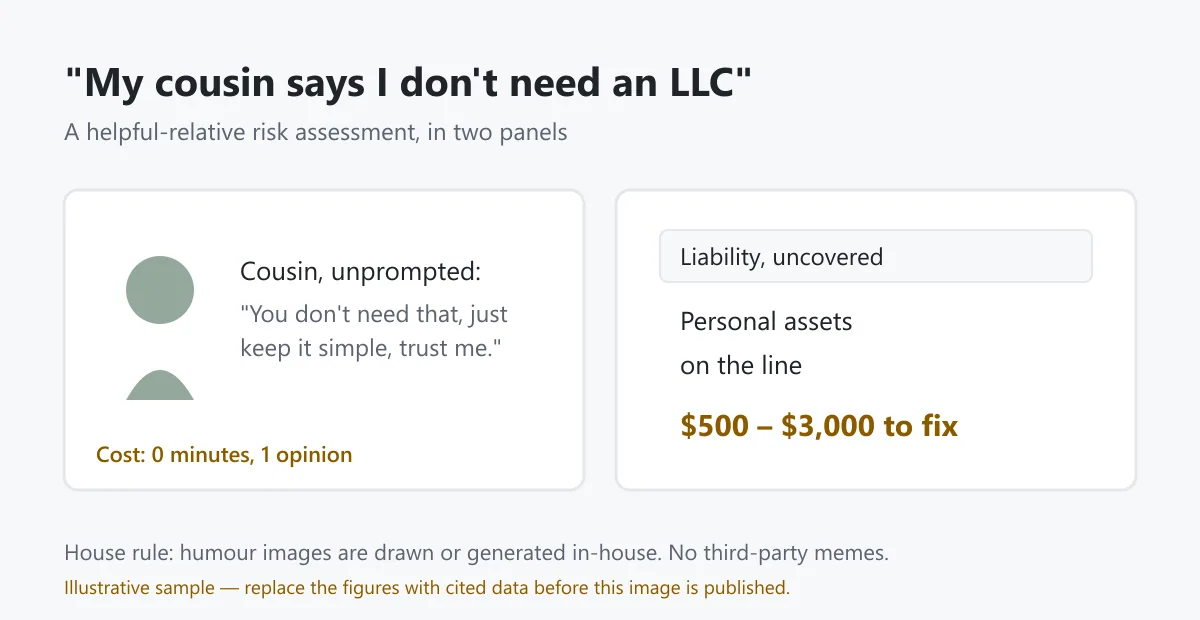
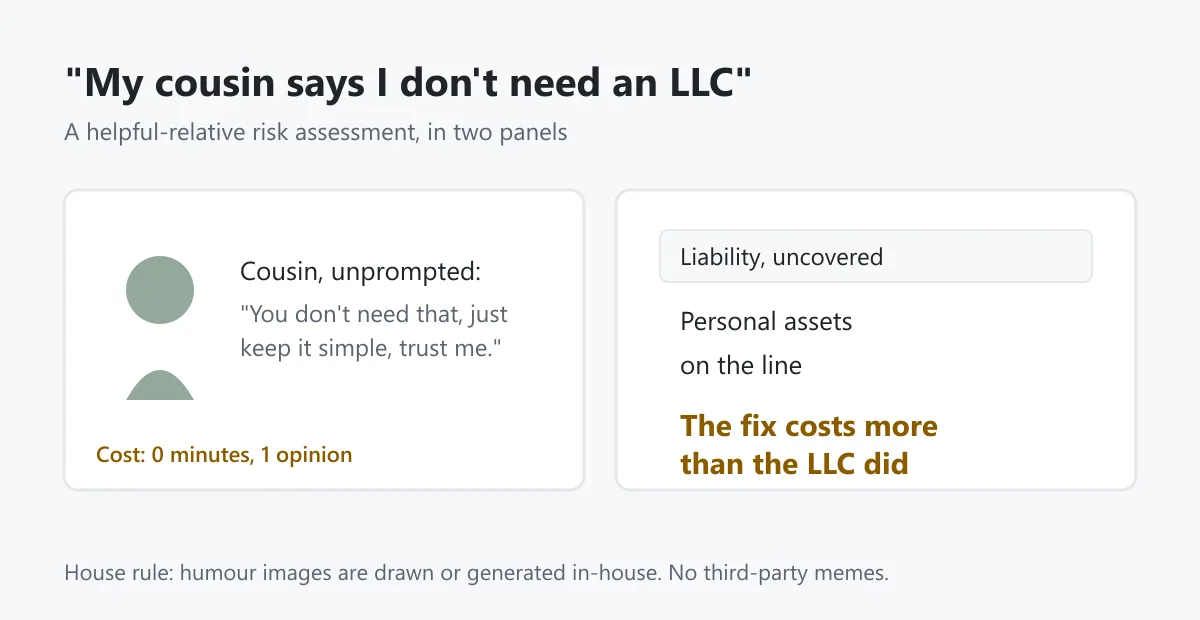
JHL-4: verify the cost figures against primary sources, rebuild the figures
Number check (the blocker before publishing the LLC cost guide). Every figure now
traces to the agency that charges it, not a comparison site:

- filing fee range $50-$500 -> $35-$500 (Montana $35, Kentucky $40, MA $500)
- registered agent $0-$150/yr -> $0-$250/yr (Northwest $125, ZenBusiness $199,
  LegalZoom $249)
- annual report -> "annual report or state renewal" $0-$800/yr, with the $800 named
  as California's annual minimum franchise tax rather than an annual-report fee
- bank account $0-$180/yr -> $0-$360/yr ($15-$30/mo unless the balance waiver is met)
- chart: New York $205 -> $200 (the $205 quoted elsewhere adds a $5 plain-copy fee)
- formation service "+$100-$300" -> "$0 to about $300" (free tiers exist)

Also in the guide: dropped the self-referential internal link, US spelling
(diarise/organisation/licence), and a sources section that names where each number
comes from.

Images: build_samples.py no longer emits the "illustrative sample" scaffold. The
chart carries its source line inside the image and its figures sit next to their
provenance in the source, so a number and its citation are edited together
(IMAGE-RULES.md §7).

Tests: two tests asserted the "no asset base configured" path while inheriting the
live config, so they broke the moment JHL-1 connected GitHub Pages. They now supply
their own config (CFG_WITHOUT_ASSETS) and test what they claim to.

verify:all exit 0 (Astro SEO + themes + 84 pipeline tests + 4/4 image audit).

Changed region(s): [[0.0308, 0.8581, 0.74, 0.9806], [0.555, 0.6435, 0.8017, 0.7661]]

diff --git a/blogger/images/build_samples.py b/blogger/images/build_samples.py
@@ -37,8 +37,9 @@ WARN = "#8a5a00"
 
 FONT = "Segoe UI, Helvetica Neue, Arial, sans-serif"
 
-SAMPLE_NOTE = ("Illustrative sample — replace the figures with cited data "
-               "before this image is published.")
+# Figures in the explanatory diagrams are citations, not decoration. Every number
+# drawn here must be traceable to the filing agency that charges it; the source line
+# under each figure names the agency class. See blogger/images/IMAGE-RULES.md §7.
 
 
 def _svg(width: int, height: int, body: str) -> str:
@@ -51,15 +52,22 @@ def _svg(width: int, height: int, body: str) -> str:
 
 
 def filing_fee_chart() -> str:
-    """Horizontal bar chart: LLC filing fee by state (sample figures)."""
+    """Horizontal bar chart: LLC filing fee by state, primary-source values.
+
+    Verified 2026-10-19 against each state's own fee schedule (the numbers a filer is
+    actually charged by the secretary of state, not a comparison site's summary):
+    MA $500 (sec.state.ma.us), TX $300 (sos.state.tx.us), NY $200 (dos.ny.gov; the
+    $205 quoted elsewhere adds a $5 plain-copy fee), FL $125 (dos.fl.gov — $100 filing
+    + $25 registered agent), WY $100 (sos.wyo.gov), CA $70 (sos.ca.gov).
+    """
     w, h = 1200, 720
     rows = [
-        ("Wyoming", 100),
-        ("Texas", 300),
-        ("Florida", 125),
-        ("New York", 205),
-        ("California", 70),
         ("Massachusetts", 500),
+        ("Texas", 300),
+        ("New York", 200),
+        ("Florida", 125),
+        ("Wyoming", 100),
+        ("California", 70),
     ]
     max_val = 500
     left, top = 300, 170
@@ -70,13 +78,13 @@ def filing_fee_chart() -> str:
         f'  <text x="64" y="86" font-family="{FONT}" font-size="40" font-weight="700" fill="{INK}">'
         "What an LLC costs to file</text>",
         f'  <text x="64" y="124" font-family="{FONT}" font-size="22" fill="{INK_SOFT}">'
-        "State filing fee, sample figures in US dollars</text>",
+        "State filing fee, US dollars, 2026</text>",
         f'  <line x1="64" y1="150" x2="{w - 64}" y2="150" stroke="{LINE}" stroke-width="2"/>',
     ]
     for i, (state, value) in enumerate(rows):
         y = top + i * (bar_h + gap)
         bar_w = int(plot_w * value / max_val)
-        shade = ACCENT if i in (0, 5) else ACCENT_2 if value >= 200 else ACCENT_3
+        shade = ACCENT if i in (0, len(rows) - 1) else ACCENT_2 if value >= 200 else ACCENT_3
         parts += [
             f'  <text x="64" y="{y + 31}" font-family="{FONT}" font-size="24" fill="{INK}">{state}</text>',
             f'  <rect x="{left}" y="{y}" width="{bar_w}" height="{bar_h}" rx="3" fill="{shade}"/>',
@@ -86,9 +94,8 @@ def filing_fee_chart() -> str:
     parts += [
         f'  <line x1="{left}" y1="{top + 6 * (bar_h + gap) - gap + 10}" x2="{w - 64}" '
         f'y2="{top + 6 * (bar_h + gap) - gap + 10}" stroke="{LINE}" stroke-width="2"/>',
-        f'  <text x="64" y="{h - 74}" font-family="{FONT}" font-size="19" fill="{WARN}">{SAMPLE_NOTE}</text>',
         f'  <text x="64" y="{h - 40}" font-family="{FONT}" font-size="19" fill="{INK_SOFT}">'
-        "Source of the real numbers: each state&#39;s secretary of state fee schedule.</text>",
+        "Source: each state&#39;s secretary of state fee schedule, 2026.</text>",
     ]
     return _svg(w, h, "\n".join(parts))
 
@@ -97,9 +104,9 @@ def first_90_days_timeline() -> str:
     """Milestone timeline for the first 90 days after formation."""
     w, h = 1200, 620
     milestones = [
-        ("Day 0", "Formation filed", "Articles of organisation accepted, EIN applied for"),
+        ("Day 0", "Formation filed", "Articles of organization accepted, EIN applied for"),
         ("Day 30", "Bank and records", "Business account opened, receipts filed from day one"),
-        ("Day 60", "Licences and permits", "Local business licence, sales tax registration if selling goods"),
+        ("Day 60", "Licenses and permits", "Local business license, sales tax registration if selling goods"),
         ("Day 90", "Habits that stick", "Monthly close, quarterly estimates reserved"),
     ]
     top = 320
@@ -135,9 +142,6 @@ def first_90_days_timeline() -> str:
                 f'  <text x="{x}" y="{top + 96 + j * 28}" text-anchor="middle" '
                 f'font-family="{FONT}" font-size="20" fill="{INK_SOFT}">{line}</text>'
             )
-    parts.append(
-        f'  <text x="64" y="{h - 40}" font-family="{FONT}" font-size="19" fill="{WARN}">{SAMPLE_NOTE}</text>'
-    )
     return _svg(w, h, "\n".join(parts))
 
 
@@ -169,10 +173,11 @@ def cartoon_meme() -> str:
         f'  <text x="680" y="330" font-family="{FONT}" font-size="26" fill="{INK}">Personal assets</text>',
         f'  <text x="680" y="374" font-family="{FONT}" font-size="26" fill="{INK}">on the line</text>',
         f'  <text x="680" y="436" font-family="{FONT}" font-size="30" font-weight="700" fill="{WARN}">'
-        "$500 – $3,000 to fix</text>",
-        f'  <text x="64" y="{h - 60}" font-family="{FONT}" font-size="22" fill="{INK_SOFT}">'
+        "The fix costs more</text>",
+        f'  <text x="680" y="474" font-family="{FONT}" font-size="30" font-weight="700" fill="{WARN}">'
+        "than the LLC did</text>",
+        f'  <text x="64" y="{h - 40}" font-family="{FONT}" font-size="22" fill="{INK_SOFT}">'
         "House rule: humour images are drawn or generated in-house. No third-party memes.</text>",
-        f'  <text x="64" y="{h - 26}" font-family="{FONT}" font-size="19" fill="{WARN}">{SAMPLE_NOTE}</text>',
     ]
     return _svg(w, h, "\n".join(parts))
 

diff --git a/blogger/tests/test_pipeline.py b/blogger/tests/test_pipeline.py
@@ -51,6 +51,13 @@ CFG = api.load_config()
 ASSETS = "https://example.github.io/owners-handbook-images"
 EXAMPLE = os.path.join(REPO, "content", "posts", "example-guide.md")
 
+# The repo's live config now points at the GitHub Pages image host, so the tests that
+# assert the "no asset base configured" path must bring their own config instead of
+# inheriting that value — otherwise they would pass or fail depending on whether the
+# image host happens to be connected, which is not what they are testing.
+CFG_WITHOUT_ASSETS = json.loads(json.dumps(CFG))
+CFG_WITHOUT_ASSETS["assets"] = {k: v for k, v in CFG["assets"].items() if k != "publicBaseUrl"}
+
 # Minimal stand-in for a page rendered with the theme applied: the theme's own markers,
 # the tags the theme adds, and the tags Blogger emits exactly once.
 HEALTHY_PAGE = """<html class='v2' dir='ltr' lang='en'><head>
@@ -126,9 +133,10 @@ _WidgetManager._RegisterWidget('_HTMLView', new _WidgetInfo('HTML2', 'footer', d
 </body></html>"""
 
 
-def convert(md: str, link_map: dict | None = None, base: str | None = ASSETS):
+def convert(md: str, link_map: dict | None = None, base: str | None = ASSETS,
+            cfg: dict = CFG):
     warnings: list[str] = []
-    html = md2blogger.convert(md, CFG, link_map or {}, warnings, base)
+    html = md2blogger.convert(md, cfg, link_map or {}, warnings, base)
     return html, warnings
 
 
@@ -235,7 +243,8 @@ class ConversionTests(unittest.TestCase):
         self.assertIn('rel="noopener"', html)
 
     def test_asset_base_missing_leaves_placeholder(self):
-        html, warnings = convert("![alt](assets/images/x.webp \"cap\")\n", base="")
+        html, warnings = convert("![alt](assets/images/x.webp \"cap\")\n", base="",
+                                 cfg=CFG_WITHOUT_ASSETS)
         self.assertIn("{{ASSET_BASE}}/x.webp", html)
         self.assertTrue(any("asset base URL is not configured" in w for w in warnings))
 
@@ -291,7 +300,7 @@ class RepoFixtureTests(unittest.TestCase):
         self.assertLessEqual(len(report["search_description"]), 150)
 
     def test_placeholder_blocks_the_gate_without_asset_base(self):
-        report = md2blogger.build_post_payload(EXAMPLE, CFG, None)
+        report = md2blogger.build_post_payload(EXAMPLE, CFG_WITHOUT_ASSETS, None)
         self.assertTrue(any("placeholders" in e for e in report["errors"]))
 
     def test_payload_is_api_shaped(self):

diff --git a/content/posts/example-guide.md b/content/posts/example-guide.md
@@ -15,12 +15,12 @@ in the order you pay it.
 
 | Cost | Typical range | Recurring? |
 | --- | --- | --- |
-| State filing fee | $50 – $500 | No (one-off) |
-| Registered agent | $0 – $150 / year | Yes |
-| Annual report | $0 – $800 / year | Yes |
-| Business bank account | $0 – $180 / year | Yes |
+| State filing fee | $35 – $500 | No (one-off) |
+| Registered agent | $0 – $250 / year | Yes |
+| Annual report or state renewal | $0 – $800 / year | Yes |
+| Business bank account | $0 – $360 / year | Yes |
 
-![Average LLC filing fee by state, 2026](assets/images/llc-filing-fee-breakdown.webp "Filing fees cluster between $90 and $200; the outliers are the states that advertise it.")
+![LLC state filing fees, 2026, six examples](assets/images/llc-filing-fee-breakdown.webp "Most states charge between $50 and $200; Massachusetts is the outlier at $500.")
 
 The filing fee is the number every comparison article leads with, and it is the least
 interesting one — it is paid once.
@@ -30,16 +30,39 @@ interesting one — it is paid once.
 1. File the formation documents with the secretary of state.
 2. Appoint a registered agent (you can usually act as your own).
 3. Open a business bank account.
-4. Diarise the annual report deadline for the year after you file.
+4. Put the annual report deadline in your calendar for the year after you file.
 
 > The annual report is the line item that turns a $150 LLC into a $400 LLC. It recurs
 > whether or not the business ever earned anything.
 
 ## If you are comparing DIY against a formation service
 
-DIY costs the state fee plus an hour of your time. A formation service typically adds
-$100 – $300 of its own fee for filling in the same form. See
-[[llc-cost-breakdown|this guide]] for the state-by-state totals, and
-[[start-a-business|where to start]] if you have not chosen a state yet.
+DIY costs the state fee plus an hour of your time. A formation service adds its own
+fee on top of the state's — from nothing on a bare-bones tier to around $300 for a
+full-service package. If you have not chosen a state yet, start with
+[[start-a-business|where to start]].
 
-![First 90 days after forming an LLC](assets/images/first-90-days-timeline.webp "The deadlines that matter are 30, 60 and 90 days after your formation date, not the day you file.")
+![The first 90 days after forming an LLC](assets/images/first-90-days-timeline.webp "The deadlines that matter are 30, 60 and 90 days after your formation date, not the day you file.")
+
+# Where these numbers come from
+
+Every figure above is the amount charged by the agency that charges it, checked in
+October 2026 — not a comparison site's summary of it.
+
+- **Filing fees** are set by each state's secretary of state. The range runs from
+  Montana at $35 and Kentucky at $40 to Massachusetts at $500. The six states charted
+  above are Massachusetts $500, Texas $300, New York $200, Florida $125, Wyoming $100
+  and California $70.
+- **Registered agent**: $0 when a member of the LLC acts as its own agent, which most
+  states allow. Commercial services run from about $125 to $250 a year.
+- **Annual report or state renewal**: no fee in states such as Arizona, Missouri and
+  New Mexico; $500 a year in Massachusetts. The $800 at the top of the range is
+  California's annual minimum franchise tax, which every LLC organised or doing
+  business there pays whether or not it made money.
+- **Business bank account**: online-only banks charge no monthly fee. Traditional
+  banks charge roughly $15 to $30 a month unless a minimum balance is kept, which is
+  where the $360 comes from — most owners pay the $0 end of that range.
+
+None of this covers state income tax, sales tax registration, or the newspaper
+publication that New York and a few other states require — those are separate bills
+again.

diff --git a/blogger/images/IMAGE-RULES.md b/blogger/images/IMAGE-RULES.md
@@ -63,13 +63,16 @@ Author in markdown; the converter produces the Blogger HTML:
 
 Blogger's API has no image upload endpoint, so the body references absolute URLs.
 
-- **Now (pre-GitHub):** images are stored in `assets/images/` in this repo and are not
-  published. `md2blogger.py` refuses to emit payloads that still contain the
-  `{{ASSET_BASE}}` placeholder, which is why a draft cannot be created with
-  unpublished image URLs.
-- **Phase 2 (planned):** the same files are served from GitHub Pages; set
-  `assets.publicBaseUrl` in `blogger/config.json` once the host is connected (or pass
-  `--assets-base` for a one-off run).
+- **Now:** the files in `assets/images/` are served by GitHub Pages from this repo
+  (`jihwanahn/ownerhandbook`, branch `master`) — connected 2026-10-19. `md2blogger.py`
+  reads `assets.publicBaseUrl` from `blogger/config.json` and appends `/` + basename,
+  so that value includes the `assets/images` path segment.
+- Publishing an image therefore means: regenerate the file here, copy it into
+  `assets/images/`, commit, push, and confirm the Pages URL returns 200 **before**
+  updating the post. A draft built against an unpublished image URL is worse than no
+  draft — the body would ship a broken `<img>`.
+- `md2blogger.py` still refuses to emit payloads containing the `{{ASSET_BASE}}`
+  placeholder, which is the guard for the case where `publicBaseUrl` is unset.
 
 ## 6. Commands
 
@@ -81,15 +84,27 @@ node   blogger/images/compose_caption.mjs in.jpg out.webp --top "…" --bottom "
 node   blogger/images/compose_caption.mjs --help 2>/dev/null || true
 ```
 
-Sample files produced for tone review (JHL-4 §3):
+Diagrams shipped so far:
 
 | File | Style | What it shows |
 | --- | --- | --- |
-| `assets/images/llc-filing-fee-breakdown.webp` | Explanatory | Bar chart, 6 states, sample figures clearly labelled as sample |
+| `assets/images/llc-filing-fee-breakdown.webp` | Explanatory | Bar chart, 6 states, primary-source filing fees (see §7) |
 | `assets/images/first-90-days-timeline.webp` | Explanatory | Four milestones after formation |
 | `assets/images/helpful-relative-meme.webp` | Humour | Generated illustration + our caption ("my cousin says…") |
 | `assets/images/helpful-relative-diagram.webp` | Humour (variant) | The same joke drawn entirely in SVG |
 
-**Sample figures are illustrative.** Every `.svg` in `samples/` carries a visible
-"illustrative sample — replace with cited data" line; the line is removed only when a
-guide's numbers have been verified against a primary source.
+## 7. A number in an image is a citation
+
+An explanatory figure is a claim, and readers cannot click through it to check. So:
+
+- Every figure that shows a number names its source in the image itself, in the same
+  file the reader sees (not only in the article body).
+- The figures live in `build_samples.py` next to the source for each value, so a
+  number and its provenance are edited together. Change one without the other and the
+  review should reject it.
+- If a number cannot be traced to the agency that charges it, it does not go in the
+  figure — rewrite the figure around what can be sourced.
+- `build_samples.py` no longer emits a "sample figures" disclaimer: the disclaimers
+  were a build-time scaffold for figures awaiting verification, and the shipped figures
+  are now verified (2026-10-19). A figure that needs a disclaimer is not ready to
+  publish.
